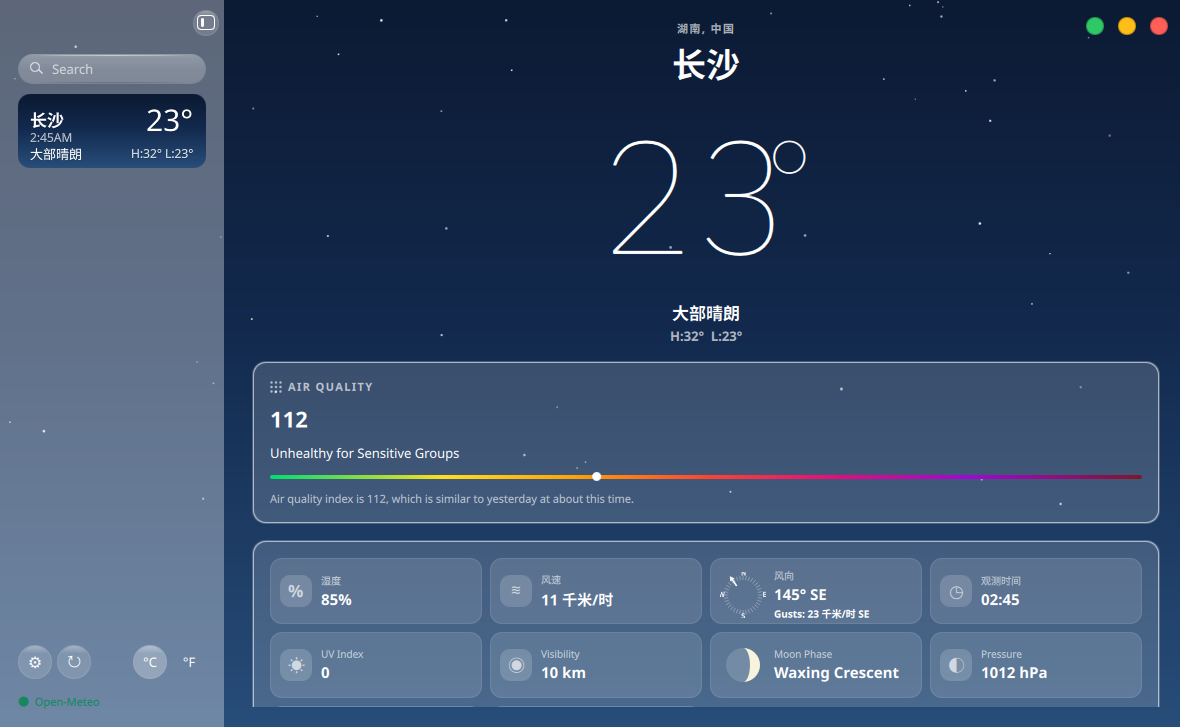
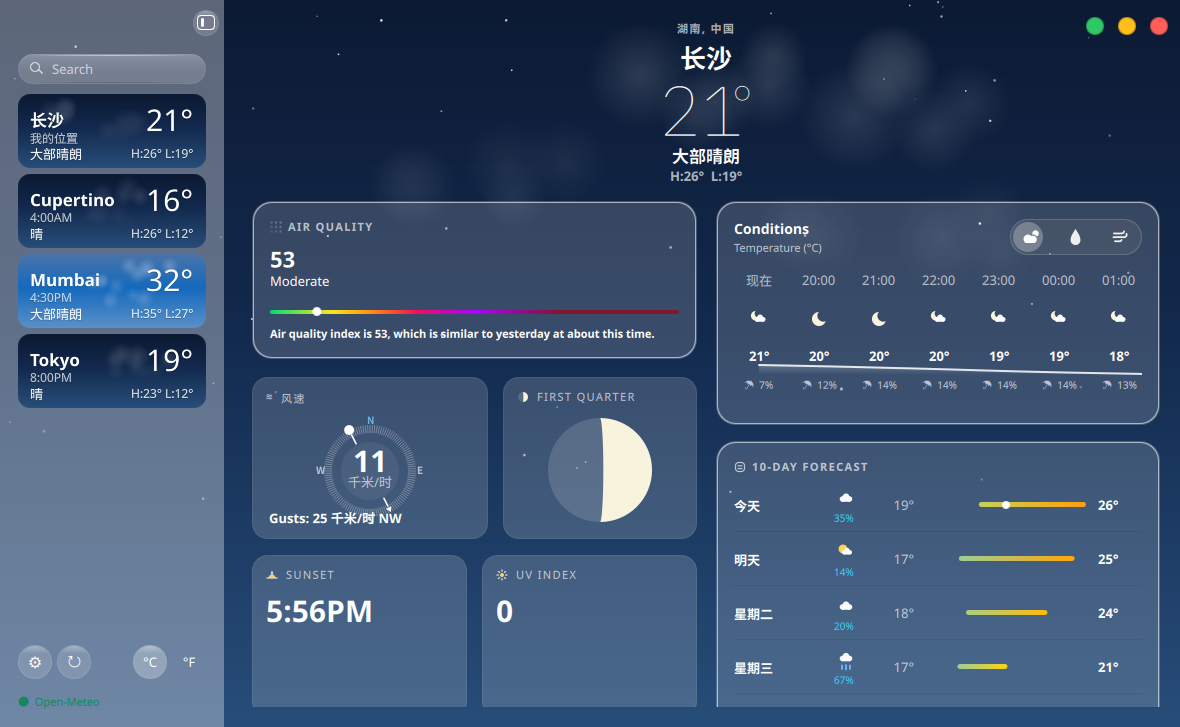
docs: round 50 进度与截图

diff --git a/docs/ui-weather/LEDGER.md b/docs/ui-weather/LEDGER.md
@@ -4,6 +4,10 @@
 参考实测色（814×498 主图采样）：天空 `#2961a7→#1469bc→#538ec9`（上→下，含云照片）；Conditions 卡 `#0057b2`；hero 文本 `#ffffff`；10天条渐变 青→黄→橙。
 
 ## 已改
+- **WIND 卡环心单位行上移 10px，消除与刻度环的碰撞（本轮，前端，零 Go/C++/shared/翻译改动，巡检轮新发现）**：巡检截图（tmp/shots/patrol-1792322227.png 过体检闸 ✅ 1180×727）4x 放大罗盘发现——环心单位 "千米/时" 墨底 y~500 距 6 点方向刻度内缘（实测 y509-513）仅 ~10px、刻度贴字形，且单位四角半径 sqrt(20²+28²)≈34 已侵入指针箭头段路径 r30；参考 tile-cards WIND 卡（222px 宽卡）"5/mph" 全部在内缘以内（数字→单位墨距 ~5px、单位墨底距刻度内缘 ~30px）。根因：数字 Label（30px）行盒死降部把单位墨压低——数字→单位墨距 16px vs 参考 ~5px。`apps/weather/qml/Main.qml:2008` 单位 Label 加 `transform: Translate { y: -10 }`（纯视觉上移、不动布局盒故数字墨位零位移；:2007 注释标明实测依据）；Canvas 刻度/字母/指针、数字字号、Gusts 行、卡高零改动。
+  **实测**（本轮二进制截图 tmp/shots/windunit-1792322566.png 过体检闸 ✅ 1180×727）：数字墨 451-471 **零位移**；单位墨 487-500→**476-487**（上移 11px），数字→单位墨距 16→**5px**（=ref tile-cards ~5px）；单位墨底距刻度内缘 10→**22px**；单位四角 r≈26 退出箭头路径 r30；目视 /tmp/z-ring2.png：单位完整落在环内、底部刻度无贴字。
+  **回归**（vs 改前 patrol-1792322227，2px 步进 diff>24）：整窗 MAE **0.029**、变化 87 采样，卡外仅 7 稀疏采样（星空/时钟已知噪声族）——罗盘外零结构位移。qmllint 0 error。测试 Qt 6/6 绿、go test ok。本轮无动效改动，无帧差义务。
+  **残差**：我方刻度带 r38-46 系卡高 162 竖向受限的缩放值（既有外推），单位净空 22px 按环比例仍小于 ref 的 ~30px——环径若日后按原生参考重校，需同步复测本间隙（并入外推待确认"罗盘刻度环"条）。
 - **侧栏选中卡副行 "My Location"（本轮，前端）**：参考 tile-sidebar 首卡（选中=My Location 城）副行是 "My Location"、其余未选卡才是当地时间（Chicago 11:41AM / Cape Town 6:41PM / Mumbai 10:11PM），我方选中卡此前与未选卡同显当地时间（仍差 0d 收口）。`apps/weather/qml/Main.qml:1241-1246` 副行 Label text 三元改为 `savedLocation.highlighted ? qsTr("My Location") : 原逻辑`（visible/color/font/样式全部不动）；`apps/common/translations/kos_apps_zh_CN.ts:623-628` Main context 追加 "My Location"→"我的位置"（en_US.ts 不动，该文件只存复数条目；qt_add_translations 构建时自动重出 .qm，282 条全 finished）。
   **实测**（截图 1792322080 过体检闸 ✅ 1180×727，本轮二进制 dev env）：选中首卡（长沙）副行显示"我的位置"，未选卡 Cupertino 4:00AM / Mumbai 4:30PM 仍显当地时间——与 ref 选中卡 "My Location" + 未选卡时间的结构逐项一致；字号/透明度沿用原副行（12px / 白@0.72，与 ref 副行同槽位）。按 LEDGER 既有裁定简化口径：以"选中卡"代"定位城"（本项目无定位城概念）。测试 Qt 6/6 绿、kos-language-test 5/5（EXPECTED_LANGUAGE=zh）、kos-application-preferences-test 7/7 绿、go test ok。
 - **侧栏多城渲染实拍验证（本轮，纯验证/运维轮，零代码改动）**：dev state `/tmp/kos-weather-test-state/quickshell/shell-data-service/state.json` 的 `weather.locations` 追加 Cupertino(37.32,-122.03, America/Los_Angeles)/Mumbai(19.08,72.88, Asia/Kolkata)/Tokyo(35.69,139.69, Asia/Tokyo) 三城（≤20 城限额内）；service 重启后因 `nextRefreshAt` 未到不拉取（weather.go:755 门控）——置 0 再重启强制刷新后 4 城 summary 全部取到（长沙 20.6 夜 / Cupertino 15.7 夜 / Mumbai 32.3 昼 / Tokyo 19.2 夜）。
@@ -363,7 +367,7 @@
 - **侧栏卡云纹理（本轮新增）**：a) 参考卡背景是**照片**，云的具体形态/覆盖不可程序化逐点复刻——3 朵×4 puff 的 puff 云系主窗 clearSkyClouds/nightClearClouds 同族近似，透明度按"ref Mumbai 夜卡 Δ~11-14 / 我方夜 Δ+35 略强、Cupertino 日卡明显更亮"折中，若要求更贴照片需整体重校；b) ~~晴日卡（code 0-1 日间）形态系外推——日分支未实拍~~（**2026-10-18 多城轮已实拍**：Mumbai 32° code 1 昼卡（截图 1792321838）云带在场、白字可读，形态与参考 Cape Town 昼卡同构；覆盖密度系程序化近似不可逐点对照的结论不变）；c) 多城时各卡种子不同（index 派生），卡间形态差异系程序化设定（ref 各卡来自真实城市照片），方向一致不可逐卡对照——多城实拍下 4 卡形态各异、无越界无裁切；d) 夜卡云上白字可读性实测通过（Δ+35 底上峰值白字），更高 opacity 档不再上调。
 - **逐小时首列 "Now"/现在的本地化与降级（本轮新增）**：a) ref-main 只证英文 "Now"，中文 "现在" 系 Apple zh 官方惯例外推；b) isCurrentHour 用 `substring(0,13)` 小时前缀比较——快照 current.time 与 hourly 首点跨小时边界（陈旧快照）时首列回落 "18:00" 形态不显 "Now"，属正确降级但未实拍；c) 行高钉死 `1.5×font.pixelSize` 系折算（比数字自然行盒高 ~1px，7 列整行均匀下移 1px、列间对齐不变）；d) en_US.ts 无 "Now" 条目（英文源串即显示值），若日后加其它 locale 需同步补条目。
 - **10 天行降水% 青蓝色值/夜景（本轮新增）**：色值取 ref-main 实测峰值 #3dcaf8（(61,202,248)@814 降采样稀释，真色更深，反解 ~#3CD6FF）——若日后拿到原生分辨率参考需校；夜间卡面下可读性未实拍（ref 无夜景，Apple 深色模式同用降水蓝的惯例系外推）；Conditions 卡逐小时 ☂ 行的伞 glyph 系无参考外推（ref 无该行），与 10 天行新形态（无伞）并存不一致是否统一待裁定。
-- **罗盘刻度环密度/带半径外推（本轮新增）**：ref 刻度带 r46-57（tile-cards 卡宽 223 比例 0.206-0.256）由对角线亮度剖面实测，但刻度根数不可数（降采样糊化+对角自相关无周期峰）——每 3°（120 根）系按"近连续羽化带"读感外推；我方带 r38-46 受卡高 162/Gusts 行约束为垂直缩放值，非卡宽比例直译；字母在带外 r50 vs 参考带内嵌；~~来向侧标记 ref 是圆头短针（3x 切片证据）vs 我方平头短线（上轮 814 证据）——指针形态修正候选下轮~~（**已收口**，见已改首条"圆头短针"；头径/头心半径的压缩折算残差移入该条残差 a/b）。刻度本色 ref 峰值仅高于卡面 +8~16 lum（糊化后），我方 白@0.30（+41 lum）偏亮可能，待更高分辨率参考再校。
+- **罗盘刻度环密度/带半径外推（本轮新增）**：ref 刻度带 r46-57（tile-cards 卡宽 223 比例 0.206-0.256）由对角线亮度剖面实测，但刻度根数不可数（降采样糊化+对角自相关无周期峰）——每 3°（120 根）系按"近连续羽化带"读感外推；我方带 r38-46 受卡高 162/Gusts 行约束为垂直缩放值，非卡宽比例直译（2026-10-18 环心单位行上移轮实测：单位墨底距刻度内缘 22px，按比例仍小于 ref ~30px——环径重校时需同步复测该间隙，见已改首条）；字母在带外 r50 vs 参考带内嵌；~~来向侧标记 ref 是圆头短针（3x 切片证据）vs 我方平头短线（上轮 814 证据）——指针形态修正候选下轮~~（**已收口**，见已改首条"圆头短针"；头径/头心半径的压缩折算残差移入该条残差 a/b）。刻度本色 ref 峰值仅高于卡面 +8~16 lum（糊化后），我方 白@0.30（+41 lum）偏亮可能，待更高分辨率参考再校。
 - **风卡指针两段式的半径取值外推**：ref-main WIND 卡指针"中心留空+来向侧短尾针"的形态已实证（见已改首条），但 814 降采样下尾针/箭头段的精确起止半径不可采样（白针与刻度环 r38-44、字母 r50 像素混叠）——我方取"主段 r30-40+尾针 r30-38"系按"单位文字竖向半径 ~27+3px 余量"与"止于刻度环内缘"外推；ref 尾针是否带尖端/是否更长（近触 N 字母）不可辨。斜 45° 风向下针 r30 端点 (±21,∓21) 与单位文字 bbox（±27, +13..+24）在角域仍可能擦边（墨迹级，未实拍斜向帧，真实风向随机）。
 - ~~**分段胶囊灰填充的夜间观感未实拍**~~（**已收口**，见已改"分段胶囊灰填充夜态实拍收口"——夜态实拍 ΔR+6/G+3/B−2 近中性证实预测；可见性由 border/选中盘/glyph 三重支撑、目视无硬边无脏感，残留仅"填充可辨度较日间降 ~3×"的观感级差异，参考图无夜景无判据，不另立轮）。
 - **☂% 0% 隐文字的阈值与全干空带**：a) 阈值取 ">0"——ref 只能证明 0% 不显示（ref Conditions 卡无 ☂ 行、10 天仅 Fri 50% 显示），0<p<某阈值的中间概率是否显示不可采样（10 天行同阈值先例，Apple 真实阈值可能更高）；b) 全部小时都 0% 时（如 ref 场景）☂ 行退化为 ~13px 空带、卡底比 ref 多一段空白——跨列收窄该行会触发 ColumnLayout 重排使温度行下坠（本轮最小 repro 实证），且 Apple 惯例是逐小时视图底部常备降水区，故保留占位；c) segment 1/2（降水/风段）下 ☂ Label 仍 visible:false，切段时的列内重排行为与改前一致未复核。
